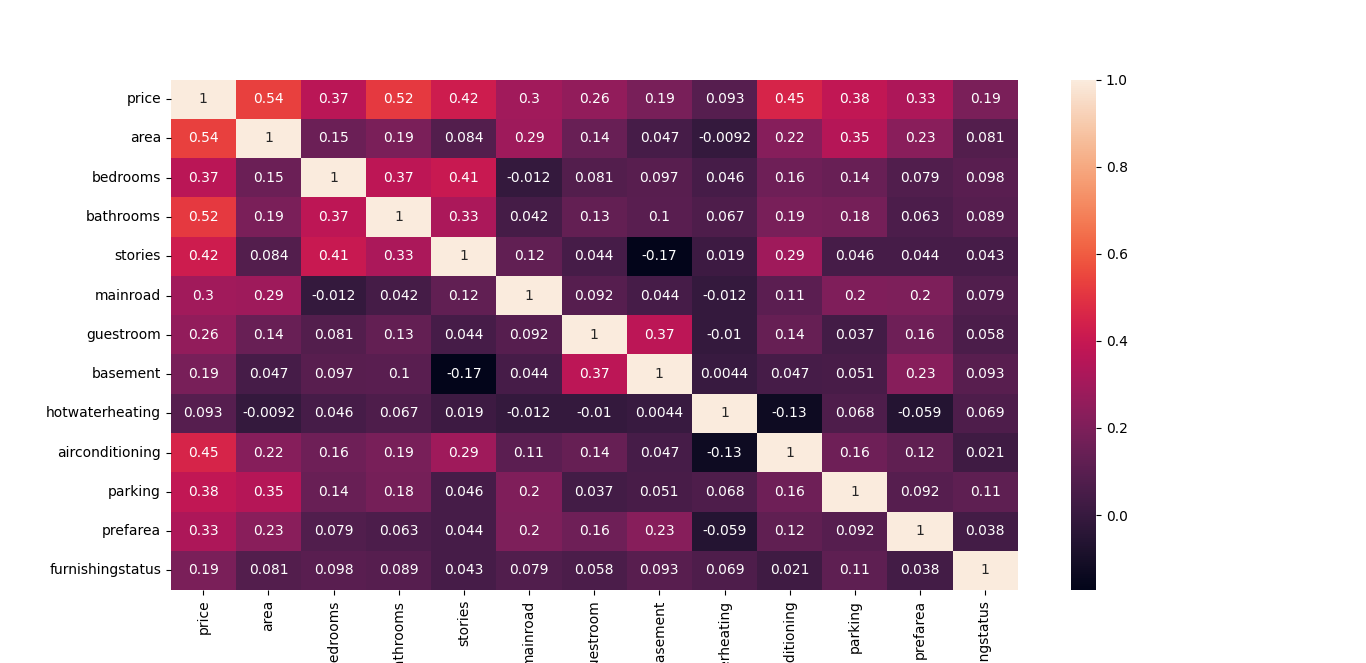
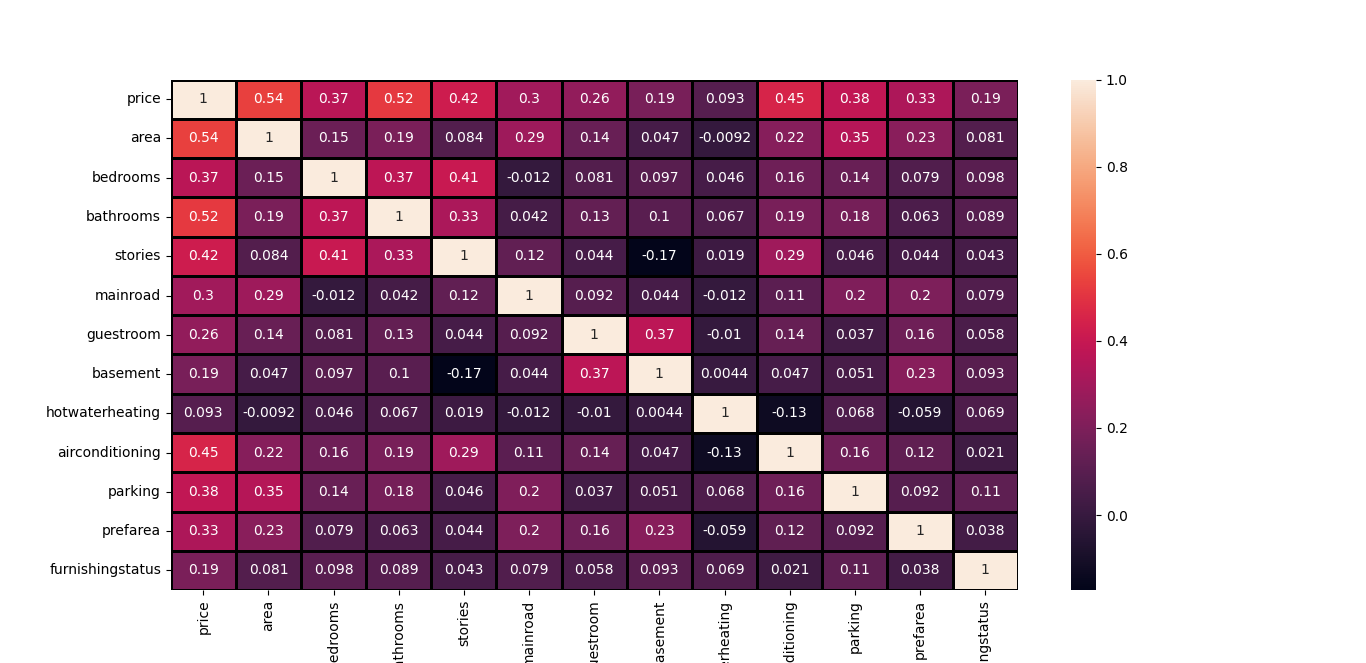
Update graph labels and add functions to plot accuracy and error.- "Update graph labels and add plot functions"

diff --git a/graph/GraphMaker.py b/graph/GraphMaker.py
@@ -9,9 +9,11 @@ class GraphMaker:
     accuracy_values: Optional[Union[List[Float], List[ndarray]]] = None
     # ใช้ค่า error เป็น mean square error
     error_values: Optional[Union[List[Float], List[ndarray]]] = None
-    xlabel: str = "Accuracy values"
-    ylabel: str = "Error values"
-    title: str = "Accuracy values VS Error values"
+    xlabel: str = "Regression Models"
+    ylabel: str = "R Square"
+    ylabel2: str = "Mean Square Error"
+    title: str = "R Square VS Mean Square Error"
+    model_names: List[str] = ['Linear', 'Multiple Linear', 'Polynomial', 'Decision Tree']
 
     def __init__(
         self,
@@ -21,13 +23,20 @@ class GraphMaker:
         self.set_accuracy_values(acc_vals)
         self.set_error_values(err_vals)
 
-    def create_graph(self) -> None:
-        plt.plot(self.accuracy_values, self.error_values)
-        plt.title(self.title)
+    def create_accuracy_graph(self) -> None:        
+        plt.plot(self.model_names, self.accuracy_values)
+        plt.title("Compare the R Square values of each model")
         plt.xlabel(self.xlabel)
         plt.ylabel(self.ylabel)
         plt.show()
 
+    def create_error_graph(self) -> None:        
+        plt.plot(self.model_names, self.error_values)
+        plt.title("Compare the Mean Square Error values of each model")
+        plt.xlabel(self.xlabel)
+        plt.ylabel(self.ylabel2)
+        plt.show()
+        
     def get_accuracy_values(self) -> Optional[Union[List[Float], List[ndarray]]]:
         return self.accuracy_values
 

diff --git a/graph/heatmap.py b/graph/heatmap.py
@@ -1,8 +1,9 @@
 from seaborn import heatmap
-from pandas import read_csv
+from seaborn.colors.crayons import crayons
+from pandas import read_csv, DataFrame
 import matplotlib.pyplot as plt
 
-data = read_csv("datasets/data.csv")
+data: DataFrame = read_csv("datasets/data.csv")
 
-heatmap(data.corr(), annot=True)
+heatmap(data.corr(), annot=True, linecolor=crayons["Black"], linewidths=2, cbar=True)
 plt.show()

diff --git a/plot_graph.py b/plot_graph.py
@@ -26,4 +26,5 @@ for model in models:
     err_vals.append(model.get_error_value())
     
 maker: GraphMaker = GraphMaker(acc_vals, err_vals)
-maker.create_graph()
+maker.create_accuracy_graph()
+maker.create_error_graph()
